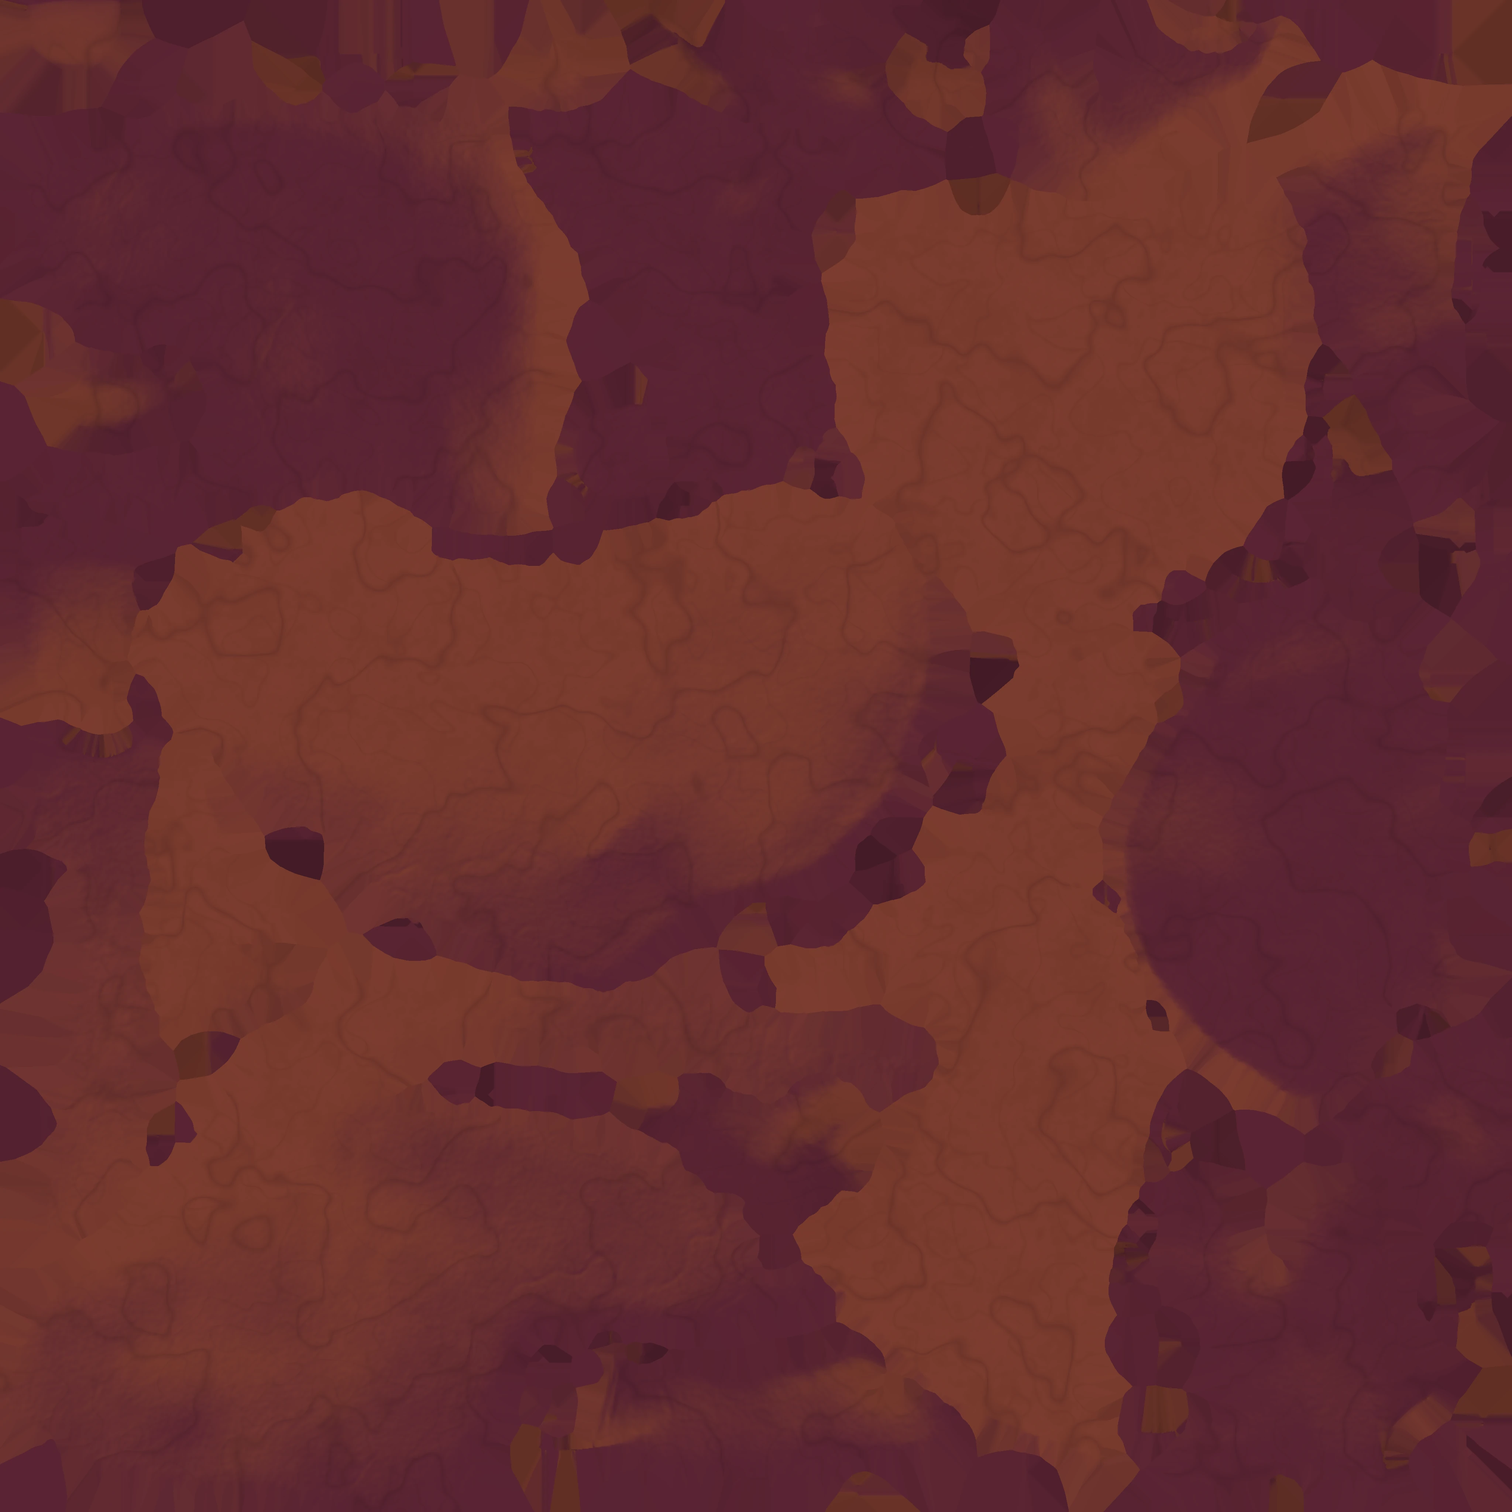
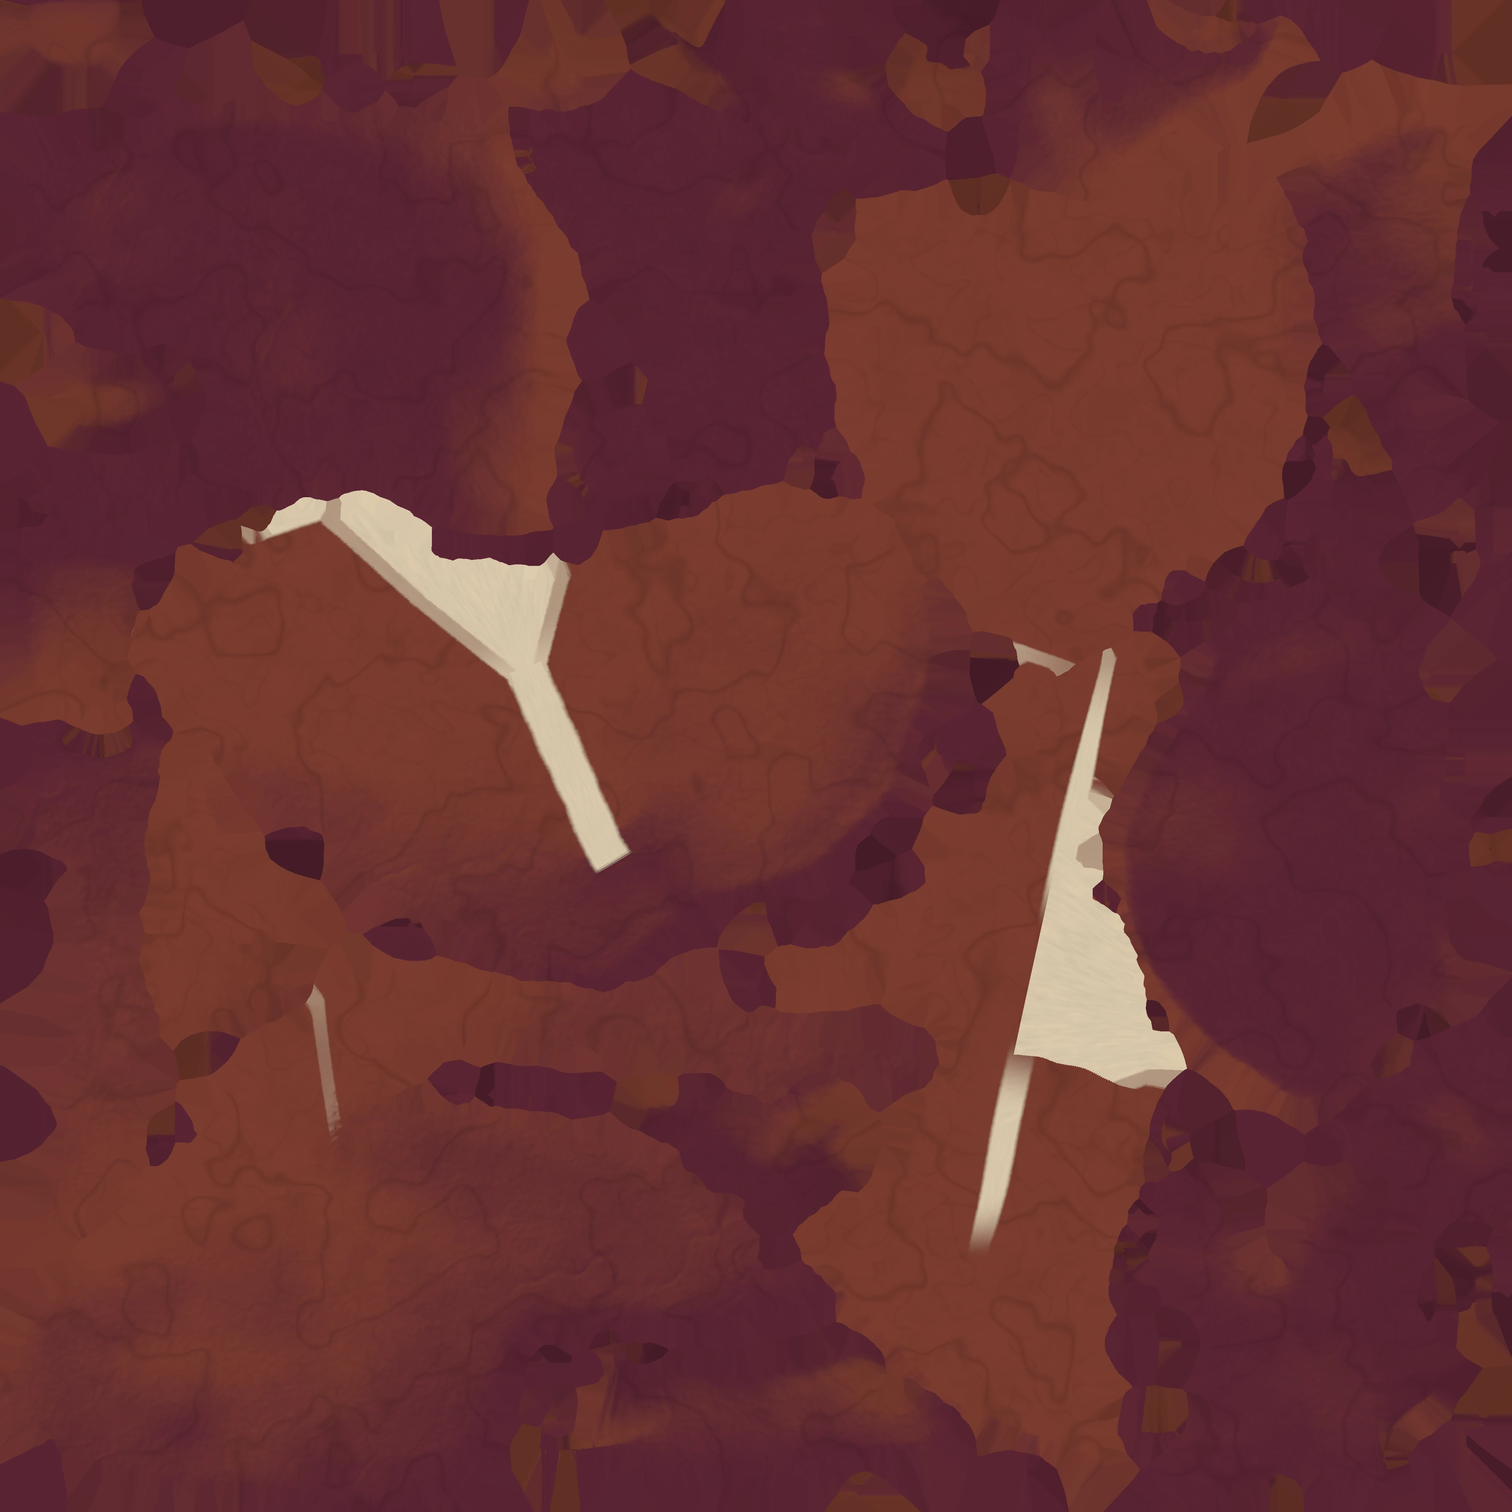
Task 7: falciform ligament as a pale fibrous band that fans into the coronary ligament (painted into the liver bake)
pipeline/falc45.py finds the falciform centreline as the page did (rays in the umbilical-fissure plane onto the CT liver)
and defines, in surface coordinates: a 10 mm pale cream band (#DDCDAF) from the umbilical notch up the anterior surface,
with gently irregular edges and fine striations along its length, slightly raised (~0.6 mm, normal map); at the superior
margin (surface normal turning superior) it flares into a fan (apex on the band, base +/-38 mm) whose two diverging layers
are denser than the membrane between them, fibres radiating from the apex; at the base the layers run left and right
across the superior surface as the coronary ligament, tapering out before the lateral margins (no triangular ligaments).
bake44.py adds the relief to the liver high mesh and the colour / lower gloss in compose; full liver re-bake. The page
drops the separate fold mesh (no z-fighting or ghost halo possible; it follows the cirrhotic morph with the capsule),
keeps the ligamentum teres hidden, and picks 'Falciform ligament' / 'Coronary ligament' (new registry entry) from the
same centreline (FALC45). Liver baselines rebaselined.

Claude-Session: https://claude.ai/code/session_01TEBj2TbyxDuz7GskHVfMKD

diff --git a/src/atlas.js b/src/atlas.js
@@ -1560,7 +1560,23 @@ function ribClear(a,b){   // closest approach (model units) of segment a→b to 
    about 0.7 mm high on a ~1.2 cm base, its flanks tucked under the capsule at ~25° (no coplanar overlap, so no z-fighting),
    fading in at the notch and out towards the dome. Colour: the liver's own red-brown, slightly paler.
    The ligamentum teres (stump at the notch, cord in the fissure) is still built and kept in the scene graph but hidden
-   (visible=false, userData.teachingHidden) for later teaching use. */
+   (visible=false, userData.teachingHidden) for later teaching use.
+   v45: the falciform is no longer a separate fold mesh. It is painted into the liver bake (pipeline/falc45.py → bake44.py:
+   relief in the normal map, pale cream fibrous colour, lower gloss): a 10 mm band with irregular edges and fine striations
+   from the umbilical notch up the anterior surface, flaring at the superior margin into a fan whose two layers diverge
+   into the coronary ligament across the top of the liver (no triangular ligaments). No z-fighting or halo is possible,
+   and it follows the cirrhotic morph with the capsule. FALC45 (below) is the same centreline, for picking. */
+const FALC45={s:[0.0000,0.0500,0.0929,0.1429,0.1858,0.2358,0.2858,0.3287,0.3787,0.4216,0.4716,0.5145,0.5645,0.6145,0.6574,0.7074,0.7503,0.8003,0.8503,0.8932,0.9432,0.9861,1.0361,1.0861,1.1290,1.1790,1.2219,1.2719,1.3219,1.3648,1.4148,1.4576,1.5077,1.5505,1.6006,1.6506,1.6934,1.7435,1.7863,1.8364],C:[[-0.4824,-0.5301,1.2944],[-0.4875,-0.4827,1.3094],[-0.4887,-0.4412,1.3129],[-0.4834,-0.3939,1.2975],[-0.4785,-0.3539,1.2830],[-0.4719,-0.3083,1.2636],[-0.4653,-0.2626,1.2443],[-0.4600,-0.2230,1.2286],[-0.4539,-0.1766,1.2110],[-0.4488,-0.1369,1.1958],[-0.4425,-0.0908,1.1775],[-0.4368,-0.0517,1.1607],[-0.4298,-0.0066,1.1402],[-0.4228,0.0384,1.1195],[-0.4165,0.0766,1.1012],[-0.4085,0.1200,1.0778],[-0.4008,0.1555,1.0550],[-0.3904,0.1940,1.0248],[-0.3791,0.2295,0.9914],[-0.3688,0.2583,0.9614],[-0.3566,0.2909,0.9255],[-0.3459,0.3181,0.8941],[-0.3333,0.3494,0.8572],[-0.3207,0.3806,0.8202],[-0.3099,0.4073,0.7884],[-0.2970,0.4374,0.7506],[-0.2857,0.4621,0.7175],[-0.2722,0.4895,0.6779],[-0.2583,0.5151,0.6372],[-0.2463,0.5362,0.6019],[-0.2320,0.5594,0.5600],[-0.2195,0.5783,0.5236],[-0.2048,0.5990,0.4805],[-0.1920,0.6150,0.4428],[-0.1767,0.6313,0.3981],[-0.1612,0.6449,0.3525],[-0.1477,0.6542,0.3129],[-0.1317,0.6605,0.2660],[-0.1179,0.6609,0.2254],[-0.1019,0.6541,0.1786]],sA:0.7646,sB:1.5077,CB:[-0.2027,0.6018,0.4742],TB:[0.2981,0.3831,-0.8743],AB:[0.8361,-0.5467,0.0455],W0:0.0715,WB:0.5430,CW:0.0457,CL:0.6860};
+function falcPick(q,n){   // v45: label of a parenchyma hit on the painted falciform / coronary ligament (null if none)
+  const F=FALC45, v=new THREE.Vector3(); let bi=0,bd=1e9;
+  for(let i=0;i<F.C.length;i++){ const d=v.set(...F.C[i]).distanceToSquared(q); if(d<bd){ bd=d; bi=i; } }
+  const i0=Math.max(0,bi-1), i1=Math.min(F.C.length-1,bi+1), T=new THREE.Vector3(...F.C[i1]).sub(new THREE.Vector3(...F.C[i0])).normalize();
+  const D=q.clone().sub(v.set(...F.C[bi])), s=F.s[bi]+D.dot(T), dd=D.addScaledVector(T,-D.dot(T)).length();
+  if(s<=F.sA && dd<F.W0*1.25) return 'Falciform ligament';
+  if(s>F.sA && s<=F.sB+0.02 && dd<F.W0+(s-F.sA)/(F.sB-F.sA)*(F.WB-F.W0)) return 'Falciform ligament';
+  const B=q.clone().sub(new THREE.Vector3(...F.CB)), t=B.dot(new THREE.Vector3(...F.TB)), lat=Math.abs(B.dot(new THREE.Vector3(...F.AB)));
+  if((!n||n.y>0.25) && Math.abs(t+0.5*F.CW)<F.CW*1.3 && lat>F.WB*0.35 && lat<F.WB+F.CL) return 'Coronary ligament';
+  return null; }
 function falciformBuild(body){
   const g=new THREE.Group(), rc=new THREE.Raycaster(), C0=new THREE.Vector2(-0.15,0.25), hit=(th)=>{
     const dy=Math.sin(th), dz=Math.cos(th), zo=C0.y+dz*3, yo=C0.x+dy*3;
@@ -1578,24 +1594,6 @@ function falciformBuild(body){
   for(let i=0;i<=NS;i++){ const u=i/NS, p=curve.getPointAt(u); let best=null,bd=9;
     for(const h of up){ const d=h.p.distanceToSquared(p); if(d<bd){ bd=d; best=h; } } P.push(p); Nn.push(best.n.clone()); }
   for(let it=0;it<8;it++) for(let i=1;i<NS;i++) Nn[i].add(Nn[i-1]).add(Nn[i+1]).normalize();
-  const sm=THREE.MathUtils.smoothstep, H=0.010, W=0.085, INS=0.020, SINK=0.004, J=12;
-  const pos=[], uvs=[], idx=[], ring=2*J+1;
-  for(let i=0;i<=NS;i++){ const u=i/NS, t=curve.getTangentAt(u), s=new THREE.Vector3().crossVectors(t,Nn[i]).normalize(), n=new THREE.Vector3().crossVectors(s,t).normalize();
-    const ends=sm(u,0.0,0.05)*(1-sm(u,0.90,1.0)), top=1-sm(Nn[i].y,0.70,0.92);          // fade in at the notch, out onto the dome
-    const h=H*ends*top, w=W*(0.80+0.20*ends);
-    for(let q=0;q<ring;q++){ const tl=(q-J)/J, a=1-tl*tl;
-      const hh=h*a*a-INS*tl*tl*tl*tl-SINK*(1-ends*top);                                  // soft dome, flanks under the capsule
-      const p=P[i].clone().addScaledVector(s,tl*w).addScaledVector(n,hh); pos.push(p.x,p.y,p.z); uvs.push(u,(tl+1)/2); } }
-  for(let i=0;i<NS;i++) for(let q=0;q<ring-1;q++){ const a=i*ring+q, b=a+ring; idx.push(a,b,a+1, a+1,b,b+1); }
-  const geo=new THREE.BufferGeometry(); geo.setAttribute('position',new THREE.Float32BufferAttribute(pos,3)); geo.setAttribute('uv',new THREE.Float32BufferAttribute(uvs,2));
-  geo.setIndex(idx); geo.computeVertexNormals();
-  { const nA=geo.attributes.normal, nn=new THREE.Vector3();   // face outward (along the capsule normal)
-    let k=0; for(let i=0;i<nA.count;i+=ring){ nn.fromBufferAttribute(nA,i+J); k+=nn.dot(Nn[Math.round(i/ring)]); }
-    if(k<0){ const I=geo.index.array; for(let f=0;f<I.length;f+=3){ const tmp=I[f+1]; I[f+1]=I[f+2]; I[f+2]=tmp; } geo.index.needsUpdate=true; geo.computeVertexNormals(); } }
-  const FALC_COL=0x8E4F40;   // v44: the liver's red-brown (Task 8 palette, #7A3B2E superior), a step paler; liver skin, not the warm serosa rim
-  const fm=skin(mat(FALC_COL,{roughness:0.42,clearcoat:0.55,clearcoatRoughness:0.26,sheen:0.10,sheenColor:new THREE.Color(0xB88078),sheenRoughness:0.6,
-    emissive:new THREE.Color(FALC_COL).multiplyScalar(0.02)}),'liver');
-  const fmesh=tag(new THREE.Mesh(geo,fm),'Falciform ligament'); g.add(fmesh);
   // ligamentum teres: cut stump from the free edge at the notch, then back along the umbilical fissure (hidden, see above)
   const n0=Nn[0].clone(), p0=P[0].clone(), outD=V3(0,-0.55,0.84).addScaledVector(n0,0.6).normalize();
   const stump=[p0.clone().addScaledVector(n0,-0.03)];
@@ -3334,9 +3332,8 @@ function hitInfo(ev){
     if(o.userData.segmentPick){
       const q=t.group.worldToLocal(h.point.clone());
       label='Segment '+SEG[segAt(q.x,q.y,q.z)];
-      // the model's falciform ridge runs along the umbilical fissure line
-      if(Math.abs(q.x-falcX(q.z))<0.030 && falcZone(q.x,q.y,q.z) && (!h.face || (h.face.normal.y>-0.30 && h.face.normal.z>0.22 && h.face.normal.y<0.92)))   // v44: anterior course only
-        label='Falciform ligament';
+      // v45: the painted falciform band, its fan and the coronary ligament (FALC45)
+      { const fl=falcPick(q,h.face?h.face.normal:null); if(fl) label=fl; }
       // ghosted parenchyma must not shadow the vessels behind it
       if(o.userData.ghost){
         if(!fallback) fallback={tier:t.index,local:q,label};

diff --git a/pipeline/falc45.py b/pipeline/falc45.py
@@ -1,0 +1,143 @@
+#!/usr/bin/env python3
+"""v45 falciform ligament, painted into the liver bake (relief + colour) instead of a separate fold mesh.
+
+    python3 pipeline/falc45.py          # prints the centreline as the FALC45 literal for src/atlas.js (picking)
+
+The centreline is found as the page's v35–v44 falciformBuild found it: rays cast in the umbilical-fissure plane
+x = falc.a + falc.b·z (data/liver-data.json ct.falc) onto the CT liver, keeping the run of hits from the umbilical notch
+up the anterior surface and over the anterosuperior slope. On it, in surface coordinates (s = arc length from the notch,
+d = signed distance across the band, patient-left positive):
+  band      s < S_A: a narrow pale fibrous strip, 10 mm wide (half-width W0 ± 10 % slow wobble and fine edge jitter),
+            slightly raised, with fine striations along its length; it reaches the inferior margin at the notch.
+  fan       S_A ≤ s ≤ S_B (from where the surface turns superior): the two layers diverge; half-width grows linearly to
+            W_B at the base. The diverging edges (the layers) are denser than the thinner membrane between them, whose
+            fibres fan out from the apex.
+  coronary  at the base, the layers turn and run left and right across the superior surface as the coronary ligament
+            (a narrow transverse band, tapering out before the lateral margins: the triangular ligaments are not modelled).
+The ligamentum teres stays hidden (page). All lengths in model units (1 unit = 69.9757 mm).
+"""
+import json, sys
+from pathlib import Path
+import numpy as np
+from scipy.spatial import cKDTree
+
+ROOT = Path(__file__).resolve().parent.parent
+sys.path.insert(0, str(Path(__file__).resolve().parent))
+from noise3 import fbm
+
+MM = 69.9757
+W0 = 5.0 / MM            # band half-width (10 mm band)
+W_B = 38.0 / MM          # fan half-width at its base
+LAYER = 3.5 / MM         # width of each diverging layer
+FAN_LEN = 52.0 / MM      # apex → base along the centreline (clipped to the run's end)
+COR_W = 3.2 / MM         # coronary band half-width
+COR_L = 48.0 / MM        # coronary: how far each band runs beyond the fan's base corners
+APEX_NY = 0.58           # the fan starts where the surface normal turns superior (n.y ≥ this)
+
+
+def _liver():
+    import base64
+    J = json.loads((ROOT / 'data/liver-data.json').read_text()); ct = J['ct']; qs = ct['qs']
+    V = np.frombuffer(base64.b64decode(ct['pos']), np.int16).reshape(-1, 3).astype(np.float64) * qs
+    F = np.frombuffer(base64.b64decode(ct['idx']), np.uint16).reshape(-1, 3).astype(np.int64)
+    return ct, V, F
+
+
+def _hits(V, F, a, b):
+    """rays in the plane x = a + b z from a circle of radius 3 around (y,z) = (-0.15, 0.25), as falciformBuild casts them"""
+    import trimesh
+    m = trimesh.Trimesh(V, F, process=False); out = []
+    for i in range(461):
+        th = np.radians(-80 + i * 0.5); dy, dz = np.sin(th), np.cos(th); zo, yo = 0.25 + dz * 3, -0.15 + dy * 3
+        o = np.array([a + b * zo, yo, zo]); c = np.array([a + b * 0.25, -0.15, 0.25]); d = (c - o) / np.linalg.norm(c - o)
+        loc, _, tri = m.ray.intersects_location([o], [d])
+        if not len(loc): continue
+        k = np.argmin(np.linalg.norm(loc - o, axis=1)); n = m.face_normals[tri[k]]
+        out.append((i, loc[k], n))
+    return out
+
+
+def centreline(n_out=None):
+    ct, V, F = _liver(); a, b = ct['falc']['a'], ct['falc']['b']
+    hs = _hits(V, F, a, b)
+    zone = lambda p: p[1] > -0.75 and (p[2] > 0.30 or (p[1] > 0.45 and p[2] > -0.35))
+    ok = lambda p, n: zone(p) and n[1] > -0.30 and (n[2] > 0.22 or n[1] > 0.55) and abs(n[0]) < 0.75
+    run, best = [], []
+    for i, p, n in hs:
+        if not ok(p, n): continue
+        if run and i - run[-1][0] > 4: run = []
+        run.append((i, p, n))
+        if len(run) > len(best): best = run
+    P = np.array([p for _, p, _ in best]); N = np.array([n for _, _, n in best])
+    if P[0][1] > P[-1][1]: P, N = P[::-1], N[::-1]                      # notch (lowest) first
+    # resample by arc length (0.5 mm), smooth normals
+    L = np.r_[0, np.cumsum(np.linalg.norm(np.diff(P, axis=0), axis=1))]; s = np.arange(0, L[-1], 0.5 / MM)
+    C = np.stack([np.interp(s, L, P[:, k]) for k in range(3)], 1); Nc = np.stack([np.interp(s, L, N[:, k]) for k in range(3)], 1)
+    for _ in range(20): Nc[1:-1] = (Nc[:-2] + Nc[2:] + 2 * Nc[1:-1]) / 4
+    Nc /= np.linalg.norm(Nc, axis=1, keepdims=True)
+    return s, C, Nc
+
+
+class Falciform:
+    def __init__(self):
+        s, C, Nc = centreline()
+        self.s, self.C, self.N = s, C, Nc
+        T = np.gradient(C, axis=0); T /= np.linalg.norm(T, axis=1, keepdims=True); self.T = T
+        A = np.cross(T, Nc); A *= np.sign(A[:, :1] + 1e-12); A /= np.linalg.norm(A, axis=1, keepdims=True); self.A = A   # +x-ish
+        ia = int(np.argmax(Nc[:, 1] >= APEX_NY)); self.sA = s[ia]
+        self.sB = min(self.sA + FAN_LEN, s[-1] - 2 / MM); ib = int(np.searchsorted(s, self.sB))
+        self.CB, self.TB, self.AB, self.NB = C[ib], T[ib], A[ib], Nc[ib]
+        self.tree = cKDTree(C)
+
+    def fields(self, X, nrm=None):
+        """per point: m (0..1 coverage), kind (0 band, 1 fan membrane, 2 layer, 3 coronary), fibre (−1..1), relief (units)"""
+        X = np.asarray(X, float); n = len(X)
+        m = np.zeros(n); rel = np.zeros(n); fib = np.zeros(n); kind = np.zeros(n)
+        dist, i = self.tree.query(X, distance_upper_bound=W_B + COR_L + 0.3)
+        near = np.isfinite(dist); ii = i[near]; Xn = X[near]
+        s = self.s[ii]; D = X[near] - self.C[ii]
+        d = np.einsum('ij,ij->i', D, self.A[ii]); h = np.einsum('ij,ij->i', D, self.N[ii])
+        onsurf = np.abs(h) < 0.06
+        if nrm is not None: onsurf &= np.einsum('ij,ij->i', nrm[near], self.N[ii]) > 0.2
+        # irregular edges: slow wobble along the length and fine jitter
+        wob = 1 + 0.10 * fbm(np.c_[s * 9, np.zeros_like(s), np.full_like(s, 3.1)], 2, seed=201)
+        jit = 0.22 / MM * fbm(Xn * 60.0, 2, seed=203)                     # gently irregular, not serrated
+        ss = lambda x, e0, e1: np.clip((x - e0) / (e1 - e0), 0, 1) ** 2 * (3 - 2 * np.clip((x - e0) / (e1 - e0), 0, 1))
+        # band
+        w = W0 * wob + jit; u = np.abs(d) / w
+        band = (1 - ss(u, 0.80, 1.12)) * (1 - ss(s, self.sA + 1 / MM, self.sA + 5 / MM)) * ss(s, 0, 1.5 / MM)
+        # fan
+        f = np.clip((s - self.sA) / (self.sB - self.sA), 0, 1); wf = W0 + f * (W_B - W0) + jit; inF = (s >= self.sA - 2 / MM) & (s <= self.sB + 0.5 / MM)
+        ef = 1 - ss(np.abs(d), wf - 0.4 / MM, wf + 0.6 / MM)                               # inside the fan outline
+        lay = ef * (1 - ss(np.abs(d), wf - LAYER - 0.6 / MM, wf - LAYER + 0.6 / MM))         # the two diverging layers
+        fan = inF * np.maximum(lay, ef * (0.62 + 0.38 * (1 - ss(s, self.sA, self.sA + 12 / MM))))   # membrane thins away from the apex
+        # coronary: a transverse band on the superior surface through the fan's base, running out beyond its corners
+        Db = Xn - self.CB; t = Db @ self.TB; lat = np.abs(Db @ self.AB)
+        cw = COR_W * (1 - 0.55 * ss(lat, W_B, W_B + COR_L)) + jit * 0.6
+        cor = (1 - ss(np.abs(t + 0.5 * COR_W), cw * 0.75, cw * 1.15)) * (1 - ss(lat, W_B + 0.45 * COR_L, W_B + COR_L)) * ss(lat, W_B * 0.35, W_B * 0.8)
+        up = ss(Xn[:, 1], self.CB[1] - 0.26, self.CB[1] - 0.18)
+        if nrm is not None: up = up * ss(nrm[near][:, 1], 0.12, 0.40)
+        cor *= up
+        mm = np.maximum(np.maximum(band, fan) * onsurf, cor)
+        k = np.where(cor > np.maximum(band, fan), 3, np.where(band >= fan, 0, np.where(lay > 0.5 * ef, 2, 1)))
+        # relief: soft dome across the band; layers and coronary a little raised, fan membrane lower
+        prof = np.where(k == 0, 1 - np.clip(u, 0, 1) ** 2, np.where(k == 3, 1 - np.clip(np.abs(t + 0.5 * COR_W) / cw, 0, 1) ** 2, 1.0))
+        hgt = np.select([k == 0, k == 1, k == 2, k == 3], [0.60, 0.25, 0.45, 0.40]) / MM
+        # fibres: along the band and the coronary, radiating from the apex across the fan
+        ang = np.arctan2(d, np.maximum(s - self.sA, 1e-3) + 4 / MM)
+        fu = np.select([k == 0, k == 3], [d * 420, t * 420], ang * 55)
+        fv = np.select([k == 0, k == 3], [s * 14, lat * 14], (s - self.sA) * 14)
+        fb = fbm(np.c_[fu, fv, np.full_like(fu, 7.7)], 3, seed=207)
+        m[near] = mm; kind[near] = k; fib[near] = fb * (mm > 0)
+        rel[near] = mm * (hgt * prof + 0.05 / MM * fb)
+        return m, kind, fib, rel
+
+
+if __name__ == '__main__':
+    fc = Falciform()
+    print(f'centreline: {len(fc.s)} samples, {fc.s[-1]*MM:.0f} mm; apex at s = {fc.sA*MM:.0f} mm {np.round(fc.C[np.searchsorted(fc.s, fc.sA)], 3)}, '
+          f'base at s = {fc.sB*MM:.0f} mm {np.round(fc.CB, 3)}')
+    k = np.linspace(0, len(fc.s) - 1, 40).round().astype(int)
+    print('FALC45={s:[' + ','.join(f'{v:.4f}' for v in fc.s[k]) + '],C:[' + ','.join(f'[{x:.4f},{y:.4f},{z:.4f}]' for x, y, z in fc.C[k]) + ']'
+          + f',sA:{fc.sA:.4f},sB:{fc.sB:.4f},CB:[{",".join(f"{v:.4f}" for v in fc.CB)}],TB:[{",".join(f"{v:.4f}" for v in fc.TB)}],AB:[{",".join(f"{v:.4f}" for v in fc.AB)}]'
+          + f',W0:{W0:.4f},WB:{W_B:.4f},CW:{COR_W:.4f},CL:{COR_L:.4f}' + '}')

diff --git a/pipeline/bake44.py b/pipeline/bake44.py
@@ -170,7 +170,9 @@ def stage_high(organ, cfg):
     Vh = taubin(P0, F0, 12 if organ == 'liver' else 4); Fh = F0
     for _ in range(cfg['subdiv']): Vh, Fh = subdiv(Vh, Fh)
     Vh = taubin(Vh, Fh, 20 if organ == 'liver' else 10); N = vnormals(Vh, Fh)
-    h = chunked({'pancreas': panc_height, 'liver': liver_height}[organ], Vh); Vh = Vh + N * h[:, None]
+    h = chunked({'pancreas': panc_height, 'liver': liver_height}[organ], Vh)
+    if organ == 'liver': h = h + falciform().fields(Vh, N)[3]          # v45: the falciform / coronary relief (falc45.py)
+    Vh = Vh + N * h[:, None]
     # mean curvature (signed, per vertex): Laplacian displacement along the normal, normalised by the mean edge length
     W = lap(Vh, Fh); Nh = vnormals(Vh, Fh); H = ((W @ Vh - Vh) * Nh).sum(1)
     e = np.linalg.norm(Vh[Fh[:, 0]] - Vh[Fh[:, 1]], axis=1).mean(); H = H / (e * e)
@@ -265,6 +267,20 @@ def liver_veins(x):
     return np.maximum(np.clip((r - 0.80) / 0.2, 0, 1) ** 2, 0.5 * np.clip((r2 - 0.82) / 0.18, 0, 1) ** 2)
 
 
+_FALC = None
+
+
+def falciform():
+    """v45: the falciform ligament's fan and coronary continuation, painted into the liver maps (pipeline/falc45.py)"""
+    global _FALC
+    if _FALC is None:
+        from falc45 import Falciform; _FALC = Falciform()
+    return _FALC
+
+
+FALC_COL = '#DDCDAF'   # v45: pale cream / off-white fibrous tissue, clearly paler than the liver
+
+
 LIVER_SUP, LIVER_INF = '#7A3B2E', '#5A2433'   # v44 (Task 8): browner diaphragmatic surface, deeper purple-red visceral surface
 
 
@@ -288,6 +304,16 @@ def compose_liver(X, ao, cav, curv, thick, onrm=None):
     col *= (0.72 + 0.28 * ao ** 0.8)[:, None]; col *= (0.85 + 0.15 * cav)[:, None]
     rough = np.clip(0.40 - 0.126 * np.clip(wet * 1.8 + 0.1, -1, 1) - 0.10 * (1 - cav) + 0.05 * m3, 0.16, 0.62)
     wetn = np.clip(0.55 + 0.9 * wet + 0.4 * (1 - ao) - 0.25 * np.clip(curv - 0.6, 0, 1) - 0.15 * (1 - thick), 0, 1)
+    # v45 (Task 7): falciform band, fan and coronary ligament: pale cream fibrous tissue with fine striations along the
+    # fibres; the thin fan membrane lets a little of the liver show through; slightly less glossy than the capsule
+    fm, fk, fb, _ = falciform().fields(X, onrm)
+    k = fm > 0
+    if k.any():
+        lc = lin(FALC_COL)[None] * (1 + 0.11 * fb[k] + 0.05 * m2[k])[:, None] * (0.78 + 0.22 * ao[k] ** 0.8)[:, None]
+        lc = lc * (1 - 0.08 * (1 - fm[k]))[:, None] + lin('#C89A86')[None] * (0.08 * (1 - fm[k]))[:, None]   # translucent edges
+        a = fm[k] * np.where(fk[k] == 1, 0.78, 0.92)
+        col[k] = col[k] * (1 - a)[:, None] + lc * a[:, None]
+        rough[k] = rough[k] * (1 - fm[k]) + (0.46 + 0.05 * fb[k]) * fm[k]; wetn[k] = wetn[k] * (1 - 0.45 * fm[k])
     return np.clip(col, 0, 1), rough, wetn
 
 
